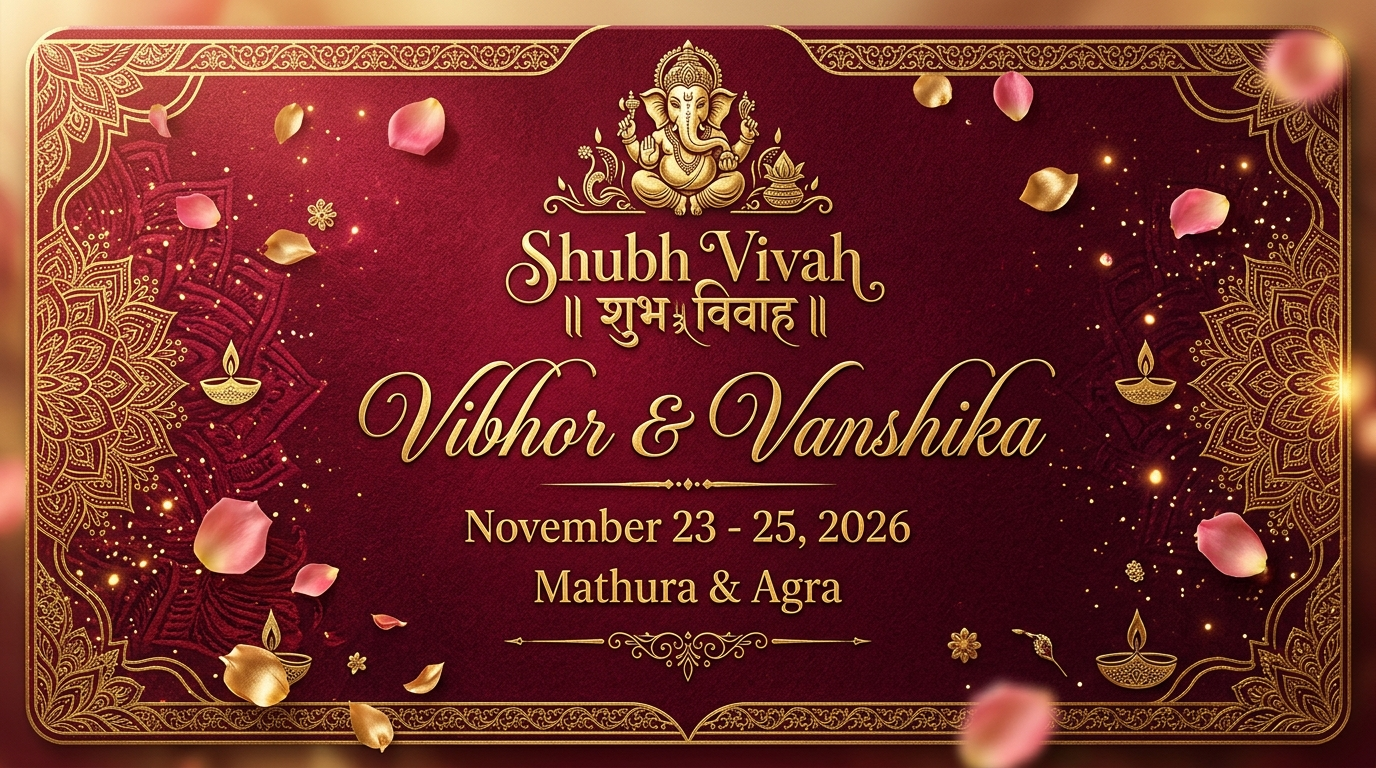
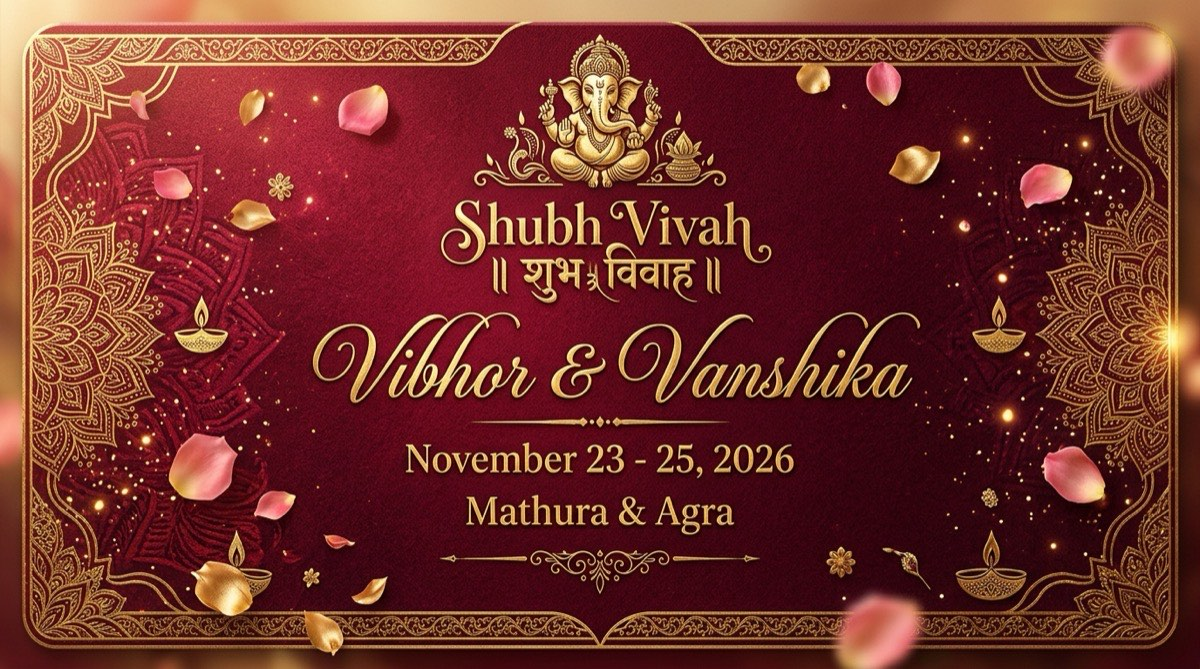
meta info issue fix

diff --git a/index.html b/index.html
@@ -14,12 +14,13 @@
 <meta property="og:url" content="https://vibhorvanshika.online/"/>
 <meta property="og:title" content="Vibhor & Vanshika — Wedding Invitation | Nov 23–25, 2026"/>
 <meta property="og:description" content="We joyfully invite you to celebrate the wedding ceremony of Vibhor & Vanshika in Mathura & Agra. View celebrations, venues, and timings."/>
-<meta property="og:image" content="https://vibhorvanshika.online/og-preview.jpg"/>
-<meta property="og:image:secure_url" content="https://vibhorvanshika.online/og-preview.jpg"/>
+<meta property="og:image" content="https://vibhorvanshika.online/og-preview.jpg?v=2"/>
+<meta property="og:image:secure_url" content="https://vibhorvanshika.online/og-preview.jpg?v=2"/>
 <meta property="og:image:type" content="image/jpeg"/>
-<meta property="og:image:width" content="1280"/>
-<meta property="og:image:height" content="720"/>
+<meta property="og:image:width" content="1200"/>
+<meta property="og:image:height" content="669"/>
 <meta property="og:site_name" content="Vibhor & Vanshika Wedding"/>
+<link rel="image_src" href="https://vibhorvanshika.online/og-preview.jpg?v=2"/>
 
 <!-- Twitter -->
 <meta name="twitter:card" content="summary_large_image"/>
